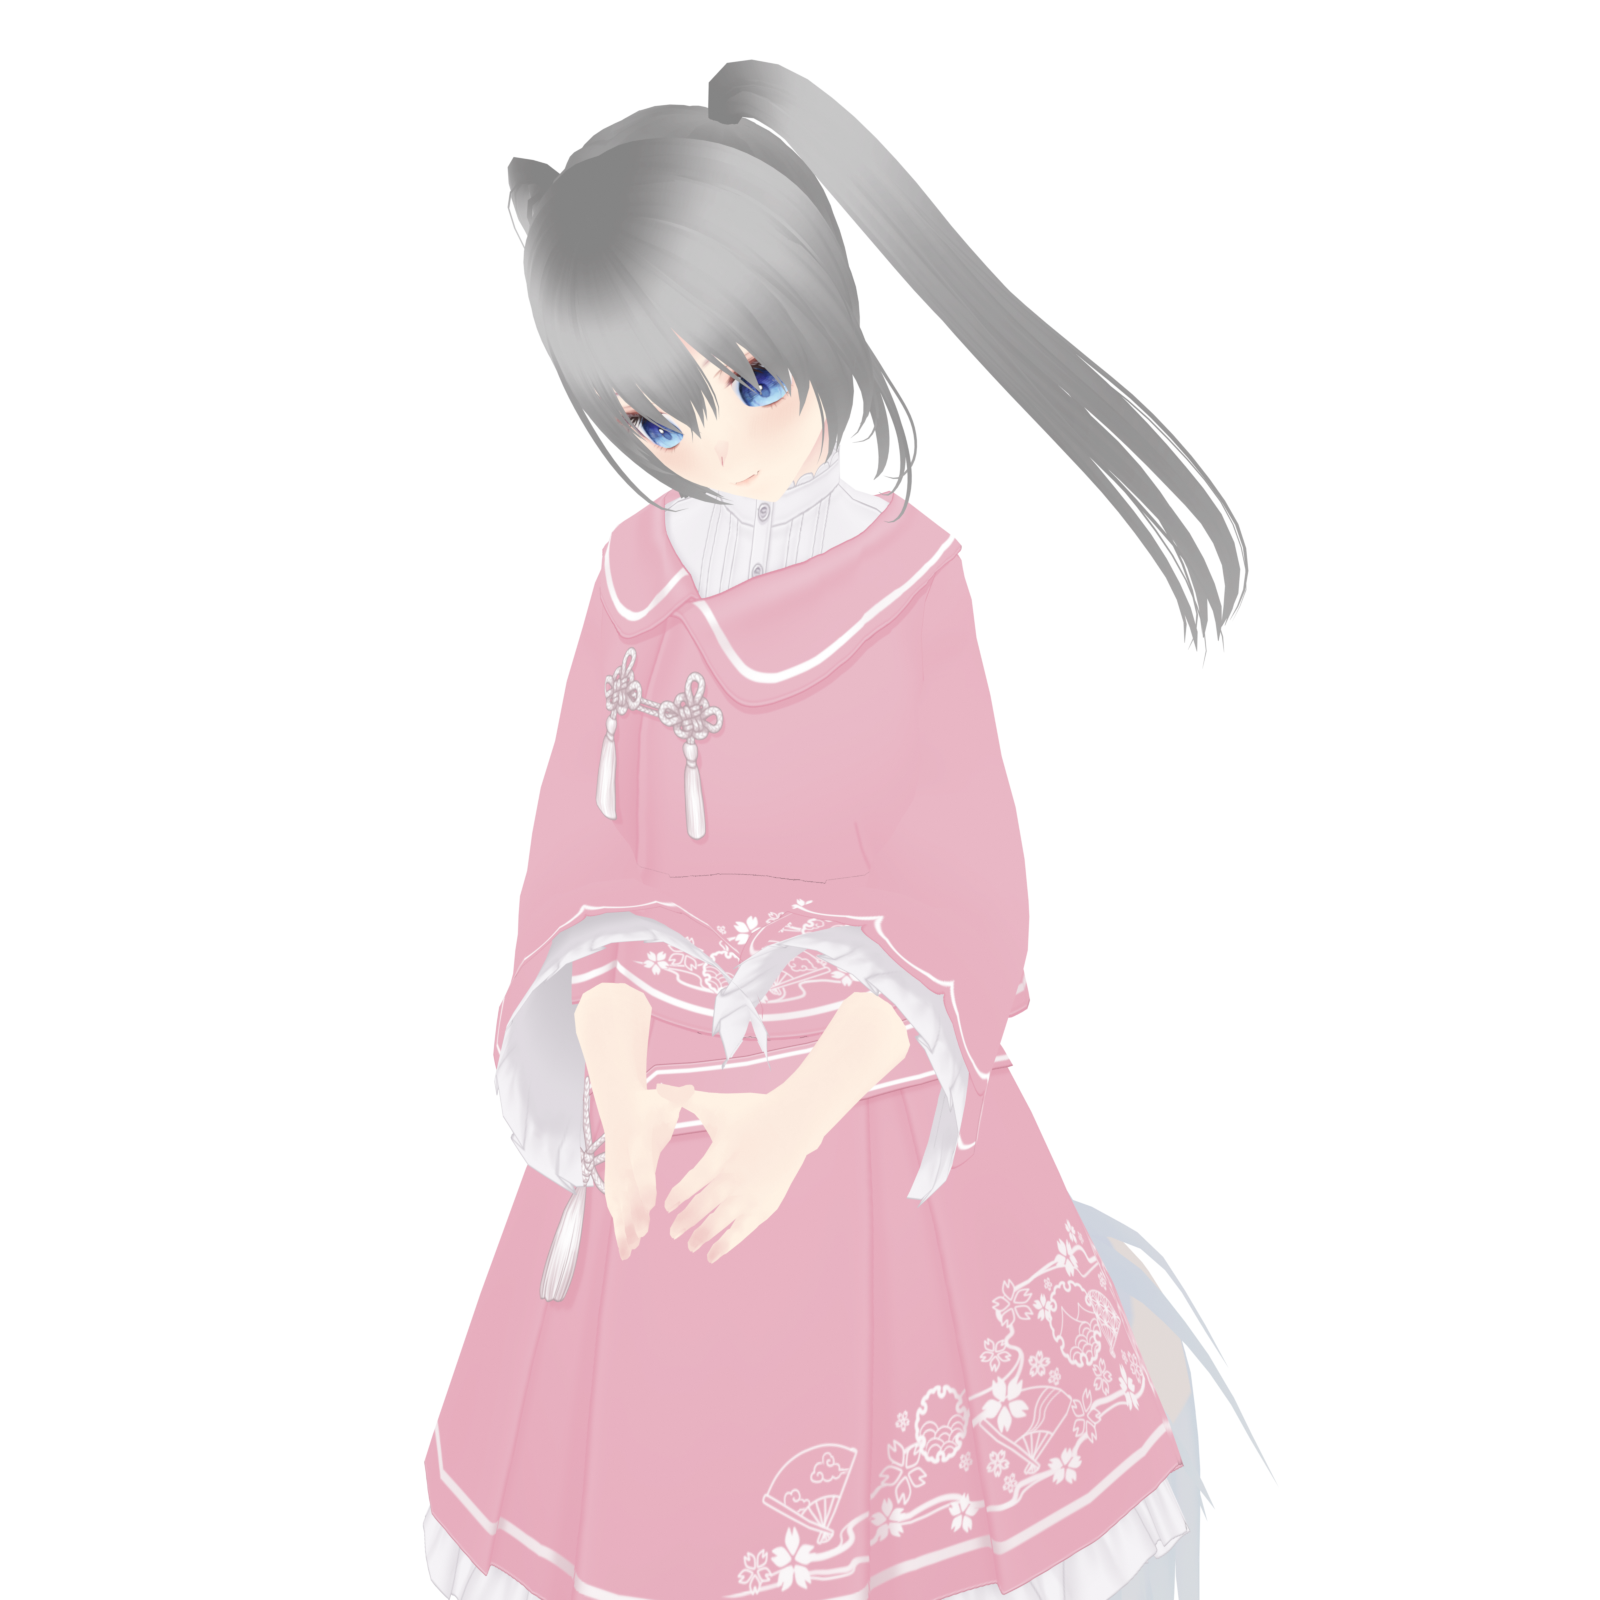
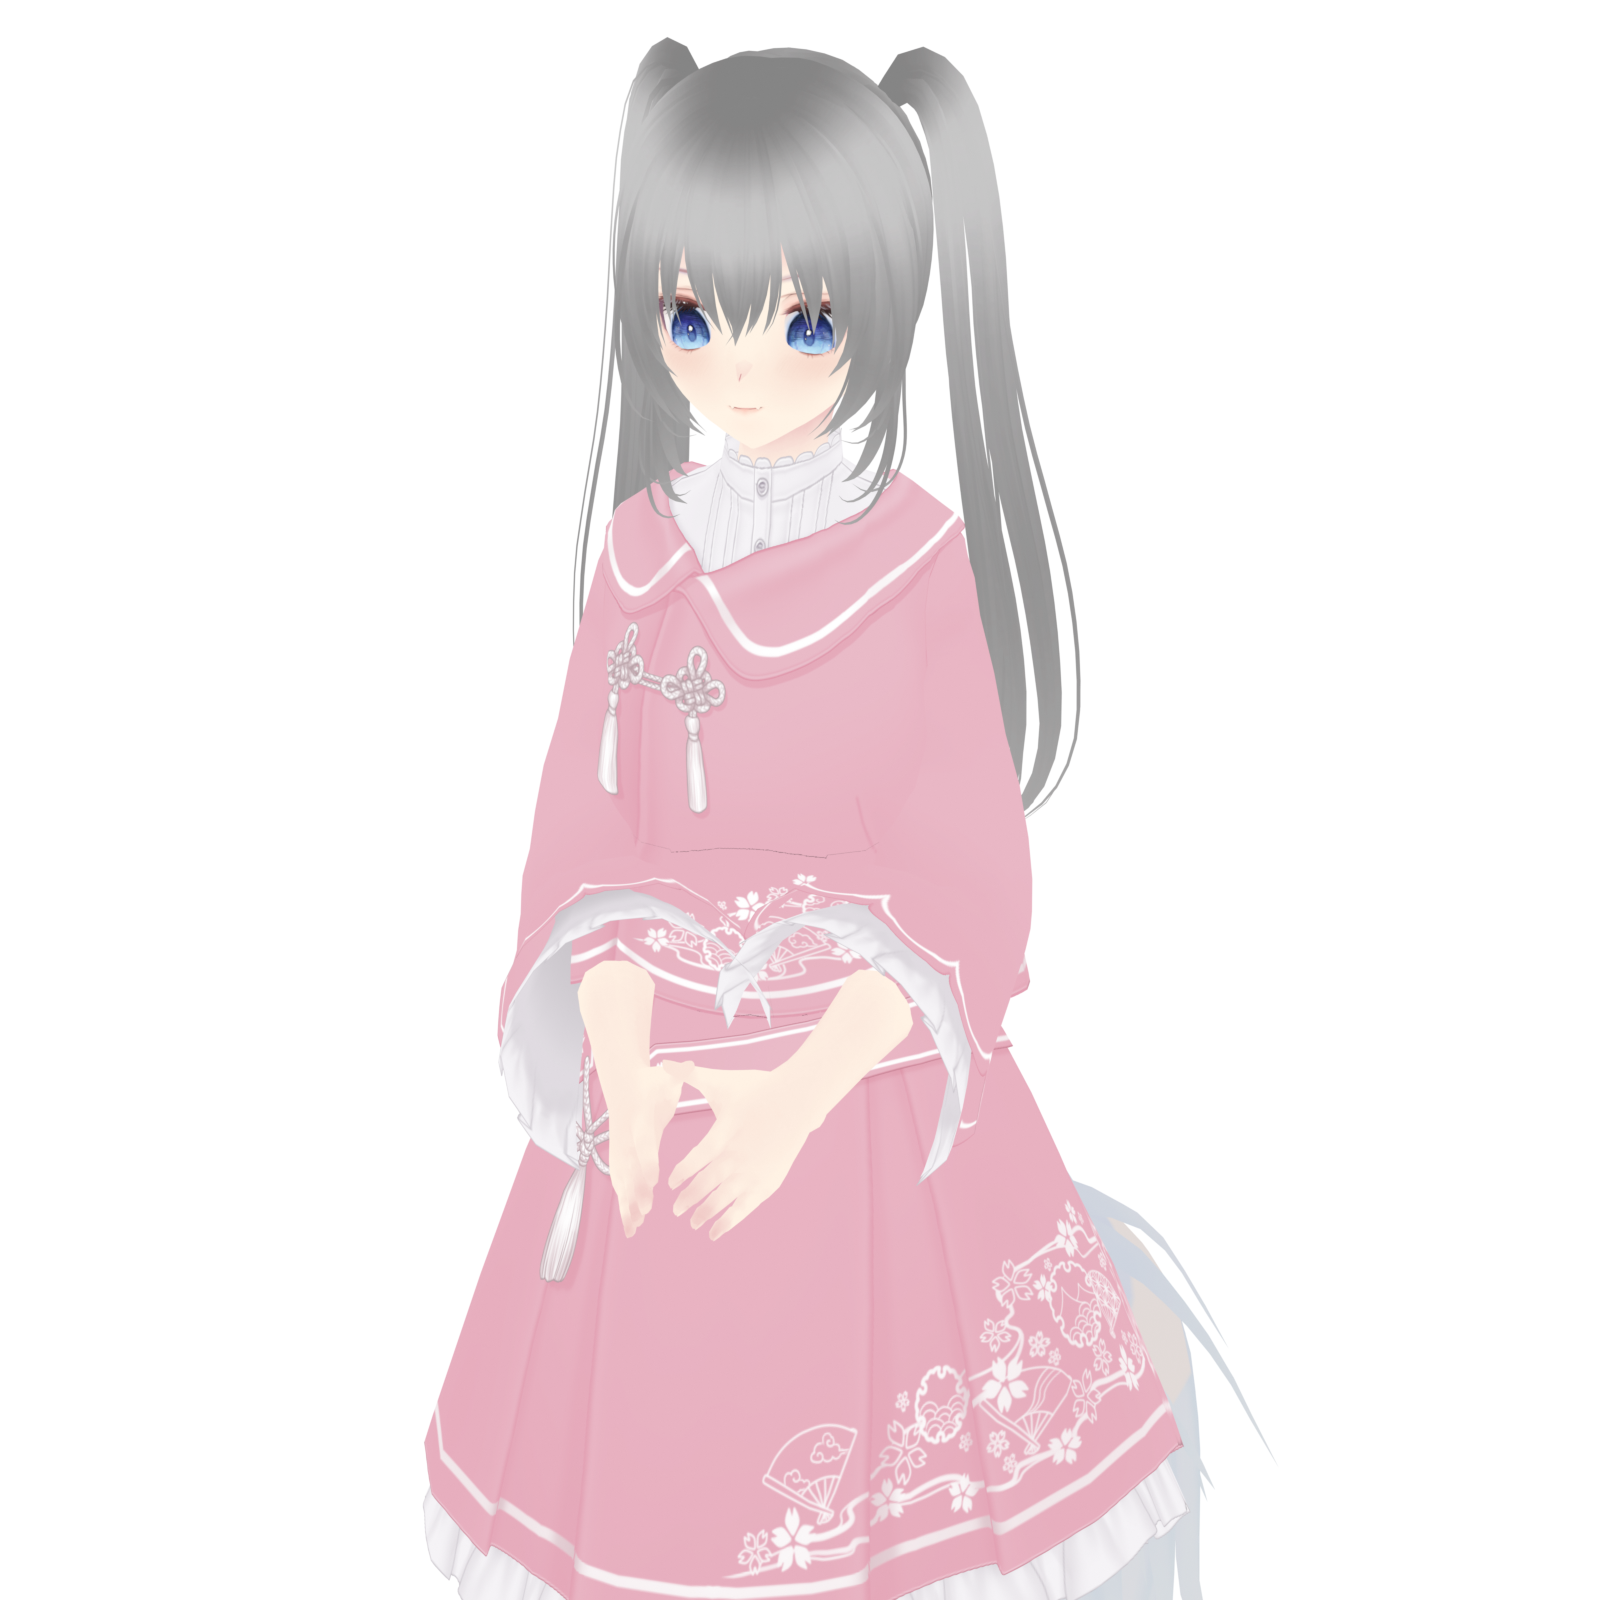
修正头部朝向，暂时去掉耳机
头骨挂着 14 根头发弹簧骨当子骨骼，_limb_dir 的「取最远子骨骼」规则挑中了
一撮头发——于是"把头摆正"实际是"把那撮头发摆正"，头被带得又低又歪，
一条马尾也跟着转到脑后。改成只跟人形骨架（J_Bip_*）走，没有人形子骨骼时
退回骨骼自身 tail 方向；对头骨来说那正好是穿过颅顶的轴。

低头和前倾幅度也各收了一点。

耳罩太大，耳机层先不出图。Blender 建模留着，取消一行注释即可恢复；
app 侧缺图时回落到常态图，不会整个人消失。

Changed region(s): [[0.2812, 0.0, 0.7812, 0.8438], [0.25, 0.7188, 0.7812, 1.0], [0.5, 0.6875, 0.5312, 0.7188]]

diff --git a/Sources/WithSnozzy/Character/RenderedSnozzy.swift b/Sources/WithSnozzy/Character/RenderedSnozzy.swift
@@ -33,9 +33,13 @@ struct RenderedSnozzy: View, Equatable {
             let w = geo.size.width, h = geo.size.height
             let deskCut = h * (assets.manifest.deskBottom ?? 1.0)
 
+            // 没有耳机图时一律用常态图——否则播放时两层都判定为隐藏，
+            // 她会整个人消失。
+            let wearing = headphones && assets.snozzyHeadphones != nil
+
             ZStack {
-                layer(assets.snozzyIdle, visible: !headphones, w: w, h: h)
-                layer(assets.snozzyHeadphones, visible: headphones, w: w, h: h)
+                layer(assets.snozzyIdle, visible: !wearing, w: w, h: h)
+                layer(assets.snozzyHeadphones, visible: wearing, w: w, h: h)
             }
             // 桌沿以下不该有她——她坐在桌子后面。
             .frame(width: w, height: h, alignment: .topLeading)

diff --git a/Blender/pose.py b/Blender/pose.py
@@ -13,20 +13,27 @@ FWD, DOWN, RIGHT = Vector((0, -1, 0)), Vector((0, 0, -1)), Vector((1, 0, 0))
 
 
 def _limb_dir(pb, prefer=None):
-    """骨骼在解剖学意义上的指向：本骨骼头部 → 子骨骼头部。
+    """骨骼在解剖学意义上的指向。
 
-    **不能用骨骼自身的 Y 轴。** glTF 里节点只有变换没有"长度和朝向"，
-    Blender 导入时按自己的启发式给骨骼定向，胳膊骨骼的 Y 轴完全可能
-    和胳膊本身差着九十度。照着 Y 轴摆姿势，数值上分毫不差，
-    渲出来却是稻草人——这个坑吃过一次。
+    **只跟人形骨架（J_Bip_*）走。** 头骨底下挂着十几根头发弹簧骨，
+    最远的那根比眼睛远得多；照"取最远子骨骼"的规则会挑中一撮头发，
+    于是"把头摆正"实际变成"把那撮头发摆正"，头被带得又低又歪。
+    次级骨（J_Sec_*）和辅助骨（J_Adj_*）一律不参与。
+
+    没有人形子骨骼时（比如头骨）退回骨骼自身的 tail 方向——
+    对头骨来说那正好是穿过颅顶的轴。
+
+    也**不能用骨骼自身的 Y 轴**：glTF 里节点只有变换没有朝向，
+    Blender 导入时按自己的启发式定向，胳膊骨骼的 Y 轴能和胳膊差 90°。
     """
+    kids = [c for c in pb.children if "J_Bip_" in c.name]
     if prefer:
-        c = next((c for c in pb.children if prefer in c.name), None)
+        c = next((c for c in kids if prefer in c.name), None)
         if c:
             return c.head - pb.head
-    if pb.children:
-        # 取最远的子骨骼：手部有五根手指做子骨骼，取拇指会把方向带偏
-        c = max(pb.children, key=lambda c: (c.head - pb.head).length)
+    if kids:
+        # 取最远的：手部有五根手指做子骨骼，取拇指会把方向带偏
+        c = max(kids, key=lambda c: (c.head - pb.head).length)
         return c.head - pb.head
     return pb.tail - pb.head
 
@@ -71,7 +78,7 @@ def sit_down(arm, seat_h=0.50):
     bpy.ops.object.mode_set(mode='OBJECT')
 
 
-def seated(arm, lean=0.10, head_down=0.18, hands="desk", sit=False, seat_h=0.50):
+def seated(arm, lean=0.07, head_down=0.12, hands="desk", sit=False, seat_h=0.50):
     """伏案坐姿。`sit=True` 时连同下半身一起摆（3D 场景需要）。"""
     if sit:
         sit_down(arm, seat_h)

diff --git a/Blender/render_layers.py b/Blender/render_layers.py
@@ -27,4 +27,6 @@ def render(name, show_hp):
 
 
 render("snozzy_idle.png", False)
-render("snozzy_headphones.png", True)
+# 耳机层暂时不出：耳罩太大，观感不过关。Blender 那边的建模留着，
+# 想恢复把下面这行取消注释再跑一遍即可。
+# render("snozzy_headphones.png", True)
